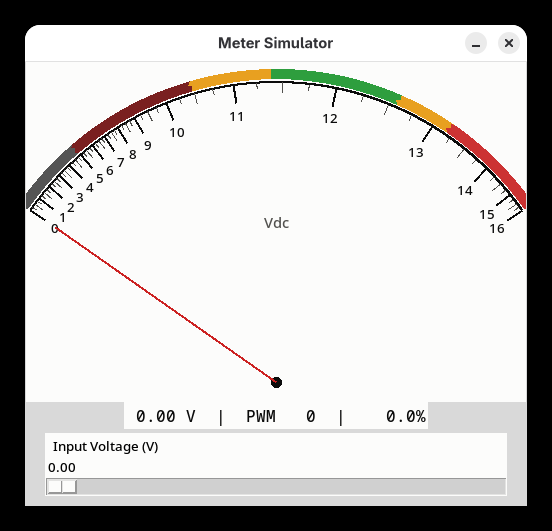
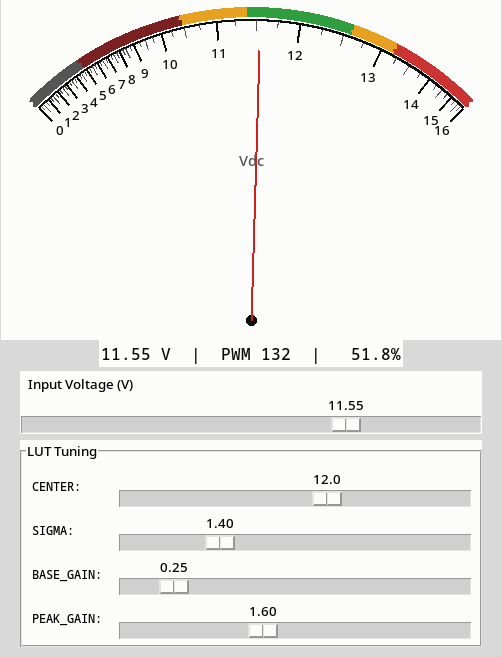
Use 90° arc to match physical scale; add live LUT tuning sliders
Change simulator and concept generator arc from 110° (145–35) to 90°
(135–45) to match the Cricut physical scale. Add interactive sliders
for CENTER, SIGMA, BASE_GAIN, and PEAK_GAIN in the simulator so the
LUT curve can be adjusted in real time.

diff --git a/simulator/meter_gui.py b/simulator/meter_gui.py
@@ -3,33 +3,38 @@ import math
 import tkinter as tk
 import numpy as np
 
-# ── LUT math (from genlut.py) ──
+# ── Defaults ──
 BUS_MIN, BUS_MAX = 0.0, 16.0
 PWM_MAX = 255
-CENTER, SIGMA = 12.0, 1.4
-BASE_GAIN, PEAK_GAIN = 0.25, 1.60
+DEFAULT_CENTER = 12.0
+DEFAULT_SIGMA = 1.4
+DEFAULT_BASE_GAIN = 0.25
+DEFAULT_PEAK_GAIN = 1.60
 
-resolution = 10000
-voltage = np.linspace(BUS_MIN, BUS_MAX, resolution)
-gain = BASE_GAIN + PEAK_GAIN * np.exp(-0.5 * ((voltage - CENTER) / SIGMA) ** 2)
-position = np.cumsum(gain)
-position -= position[0]
-position /= position[-1]
-
-
-def volt_to_position(v):
-    return float(np.interp(v, voltage, position))
-
-
-# ── Geometry (shallow arc like an 85C1 panel meter) ──
-ARC_START = 145
-ARC_END = 35
+# ── Geometry (90° arc matching physical scale) ──
+ARC_START = 135
+ARC_END = 45
 ARC_SPAN = ARC_START - ARC_END
 
 W, H = 500, 340
 CX, CY = W // 2, 320
 RADIUS = 300
 NEEDLE_LEN = RADIUS - 30
+
+RESOLUTION = 10000
+voltage = np.linspace(BUS_MIN, BUS_MAX, RESOLUTION)
+
+
+def compute_position(center, sigma, base_gain, peak_gain):
+    gain = base_gain + peak_gain * np.exp(-0.5 * ((voltage - center) / sigma) ** 2)
+    pos = np.cumsum(gain)
+    pos -= pos[0]
+    pos /= pos[-1]
+    return pos
+
+
+def volt_to_position(v, position):
+    return float(np.interp(v, voltage, position))
 
 
 def pos_to_angle(pos):
@@ -40,6 +45,17 @@ def endpoint(angle, r, cx=CX, cy=CY):
     return cx + r * math.cos(angle), cy - r * math.sin(angle)
 
 
+BAND_R = RADIUS + 8
+BAND_W = 10
+ranges = [
+    (0.0,  5.0,  '#555555'),
+    (5.0,  10.5, '#7a2020'),
+    (10.5, 11.4, '#e8a020'),
+    (11.4, 12.6, '#2e9e3e'),
+    (12.6, 13.2, '#e8a020'),
+    (13.2, 16.0, '#cc3333'),
+]
+
 # ── App ──
 root = tk.Tk()
 root.title("Meter Simulator")
@@ -48,81 +64,135 @@ root.resizable(False, False)
 canvas = tk.Canvas(root, width=W, height=H, bg="#fcfcfb", highlightthickness=0)
 canvas.pack()
 
-# Colored range bands (drawn first so ticks sit on top)
-BAND_R = RADIUS + 8
-BAND_W = 10
-ranges = [
-    (0.0,  5.0,  '#555555'),  # gray   — device off
-    (5.0,  10.5, '#7a2020'),  # maroon — brownout zone (corruption / disk damage)
-    (10.5, 11.4, '#e8a020'),  # amber  — brownout risk
-    (11.4, 12.6, '#2e9e3e'),  # green  — Synology safe range (±5%)
-    (12.6, 13.2, '#e8a020'),  # amber  — overvoltage warning
-    (13.2, 16.0, '#cc3333'),  # red    — overvoltage damage
-]
-for v_lo, v_hi, color in ranges:
-    pts = []
-    p0 = volt_to_position(v_lo)
-    p1 = volt_to_position(v_hi)
-    steps = max(int(abs(p1 - p0) * 500), 20)
-    for i in range(steps + 1):
-        p = p0 + (p1 - p0) * i / steps
-        a = pos_to_angle(p)
-        pts.extend(endpoint(a, BAND_R))
-    canvas.create_line(pts, fill=color, width=BAND_W, smooth=True)
-
-# Draw arc
-pts = []
-for i in range(501):
-    a = math.radians(ARC_END + i * (ARC_START - ARC_END) / 500)
-    pts.extend(endpoint(a, RADIUS))
-canvas.create_line(pts, fill="#0b0b0b", width=2, smooth=True)
-
-# Ticks and labels
-for v in np.arange(0, 16.25, 0.25):
-    pos = volt_to_position(v)
-    a = pos_to_angle(pos)
-    is_major = v == int(v)
-    is_half = (v * 2) == int(v * 2) and not is_major
-
-    if is_major:
-        tick_len, width = 18, 2
-    elif is_half:
-        tick_len, width = 11, 1
-    else:
-        tick_len, width = 6, 1
-
-    x0, y0 = endpoint(a, RADIUS)
-    x1, y1 = endpoint(a, RADIUS - tick_len)
-    canvas.create_line(x0, y0, x1, y1, fill="#0b0b0b" if is_major else "#52514e", width=width)
-
-    if is_major:
-        lx, ly = endpoint(a, RADIUS - 30)
-        canvas.create_text(lx, ly, text=str(int(v)), font=("sans-serif", 10), fill="#0b0b0b")
-
-canvas.create_text(CX, 160, text="Vdc", font=("sans-serif", 11), fill="#52514e")
-
-# Needle pivot dot
-canvas.create_oval(CX - 5, CY - 5, CX + 5, CY + 5, fill="#0b0b0b", outline="#0b0b0b")
-
-needle = canvas.create_line(CX, CY, *endpoint(pos_to_angle(0), NEEDLE_LEN), fill="#cc2222", width=2)
-
-readout = tk.Label(root, text="0.00 V  |  PWM 0  |  0.0%", font=("monospace", 12), bg="#fcfcfb", fg="#0b0b0b")
+readout = tk.Label(root, text="0.00 V  |  PWM 0  |  0.0%",
+                   font=("monospace", 12), bg="#fcfcfb", fg="#0b0b0b")
 readout.pack(pady=(0, 4))
 
-def on_slider(val):
-    v = float(val)
-    pos = volt_to_position(v)
+voltage_var = tk.DoubleVar(value=0.0)
+center_var = tk.DoubleVar(value=DEFAULT_CENTER)
+sigma_var = tk.DoubleVar(value=DEFAULT_SIGMA)
+base_gain_var = tk.DoubleVar(value=DEFAULT_BASE_GAIN)
+peak_gain_var = tk.DoubleVar(value=DEFAULT_PEAK_GAIN)
+
+canvas_items = []
+
+
+def draw_meter():
+    for item in canvas_items:
+        canvas.delete(item)
+    canvas_items.clear()
+
+    position = compute_position(center_var.get(), sigma_var.get(),
+                                base_gain_var.get(), peak_gain_var.get())
+
+    # Colored range bands
+    for v_lo, v_hi, color in ranges:
+        pts = []
+        p0 = volt_to_position(v_lo, position)
+        p1 = volt_to_position(v_hi, position)
+        steps = max(int(abs(p1 - p0) * 500), 20)
+        for i in range(steps + 1):
+            p = p0 + (p1 - p0) * i / steps
+            a = pos_to_angle(p)
+            pts.extend(endpoint(a, BAND_R))
+        canvas_items.append(
+            canvas.create_line(pts, fill=color, width=BAND_W, smooth=True))
+
+    # Main arc
+    pts = []
+    for i in range(501):
+        a = math.radians(ARC_END + i * (ARC_START - ARC_END) / 500)
+        pts.extend(endpoint(a, RADIUS))
+    canvas_items.append(
+        canvas.create_line(pts, fill="#0b0b0b", width=2, smooth=True))
+
+    # Ticks and labels
+    for v in np.arange(0, 16.25, 0.25):
+        pos = volt_to_position(v, position)
+        a = pos_to_angle(pos)
+        is_major = v == int(v)
+        is_half = (v * 2) == int(v * 2) and not is_major
+
+        if is_major:
+            tick_len, width = 18, 2
+        elif is_half:
+            tick_len, width = 11, 1
+        else:
+            tick_len, width = 6, 1
+
+        x0, y0 = endpoint(a, RADIUS)
+        x1, y1 = endpoint(a, RADIUS - tick_len)
+        canvas_items.append(
+            canvas.create_line(x0, y0, x1, y1,
+                               fill="#0b0b0b" if is_major else "#52514e",
+                               width=width))
+
+        if is_major:
+            lx, ly = endpoint(a, RADIUS - 30)
+            canvas_items.append(
+                canvas.create_text(lx, ly, text=str(int(v)),
+                                   font=("sans-serif", 10), fill="#0b0b0b"))
+
+    canvas_items.append(
+        canvas.create_text(CX, 160, text="Vdc",
+                           font=("sans-serif", 11), fill="#52514e"))
+
+    # Pivot dot
+    canvas_items.append(
+        canvas.create_oval(CX - 5, CY - 5, CX + 5, CY + 5,
+                           fill="#0b0b0b", outline="#0b0b0b"))
+
+    # Needle
+    v = voltage_var.get()
+    pos = volt_to_position(v, position)
     a = pos_to_angle(pos)
     nx, ny = endpoint(a, NEEDLE_LEN)
-    canvas.coords(needle, CX, CY, nx, ny)
+    canvas_items.append(
+        canvas.create_line(CX, CY, nx, ny, fill="#cc2222", width=2))
+
+    # Readout
     pwm = round(pos * PWM_MAX)
     duty = pwm / PWM_MAX * 100
     readout.config(text=f"{v:5.2f} V  |  PWM {pwm:3d}  |  {duty:5.1f}%")
 
-slider = tk.Scale(root, from_=0, to=16, resolution=0.01, orient=tk.HORIZONTAL,
-                  length=W - 40, command=on_slider, label="Input Voltage (V)",
-                  bg="#fcfcfb", highlightthickness=0, troughcolor="#d0d0d0")
-slider.pack(padx=20, pady=(0, 10))
 
-on_slider(0)
+def on_voltage_change(_=None):
+    draw_meter()
+
+
+def on_tuning_change(_=None):
+    draw_meter()
+
+
+voltage_slider = tk.Scale(root, from_=0, to=16, resolution=0.01,
+                           orient=tk.HORIZONTAL, length=W - 40,
+                           variable=voltage_var, command=on_voltage_change,
+                           label="Input Voltage (V)",
+                           bg="#fcfcfb", highlightthickness=0,
+                           troughcolor="#d0d0d0")
+voltage_slider.pack(padx=20, pady=(0, 6))
+
+# ── Tuning controls ──
+tuning_frame = tk.LabelFrame(root, text="LUT Tuning", bg="#fcfcfb",
+                              font=("sans-serif", 10), padx=8, pady=4)
+tuning_frame.pack(fill=tk.X, padx=20, pady=(0, 10))
+
+tuning_params = [
+    ("CENTER",    center_var,    6.0,  16.0, 0.1),
+    ("SIGMA",     sigma_var,     0.1,  5.0,  0.05),
+    ("BASE_GAIN", base_gain_var, 0.01, 2.0,  0.01),
+    ("PEAK_GAIN", peak_gain_var, 0.01, 4.0,  0.01),
+]
+for label_text, var, from_, to_, res in tuning_params:
+    row = tk.Frame(tuning_frame, bg="#fcfcfb")
+    row.pack(fill=tk.X, pady=1)
+    tk.Label(row, text=f"{label_text}:", width=12, anchor="w",
+             bg="#fcfcfb", font=("monospace", 9)).pack(side=tk.LEFT)
+    tk.Scale(row, from_=from_, to=to_, resolution=res,
+             orient=tk.HORIZONTAL, length=300, variable=var,
+             command=on_tuning_change, bg="#fcfcfb",
+             highlightthickness=0, troughcolor="#d0d0d0",
+             showvalue=True).pack(side=tk.LEFT, fill=tk.X, expand=True)
+
+draw_meter()
 root.mainloop()

diff --git a/scale/generate_concept.py b/scale/generate_concept.py
@@ -21,8 +21,8 @@ position /= position[-1]
 def volt_to_position(v):
     return np.interp(v, voltage, position)
 
-arc_start_deg = 145
-arc_end_deg = 35
+arc_start_deg = 135
+arc_end_deg = 45
 arc_span = arc_start_deg - arc_end_deg
 
 radius = 1.0